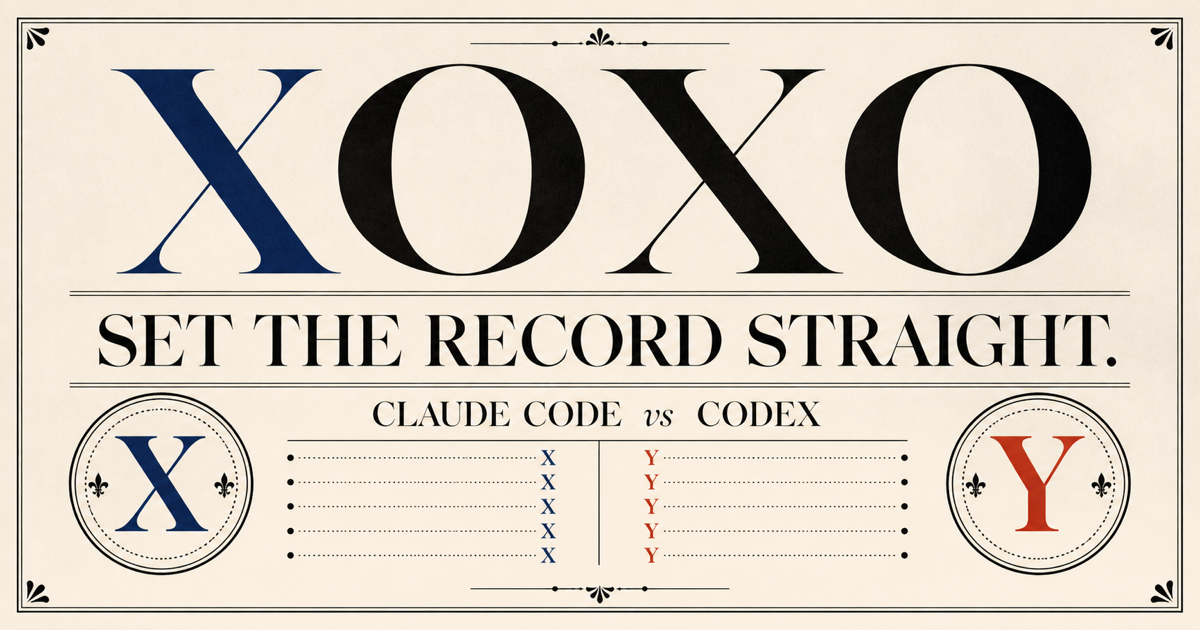
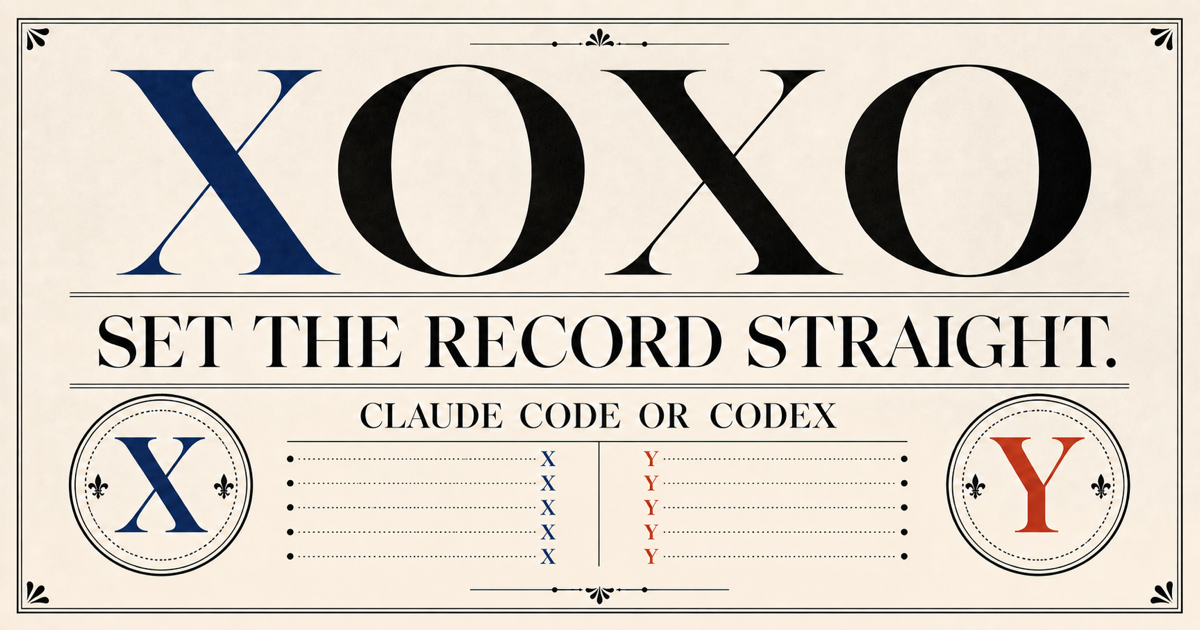
fix: clarify any-model comparisons

diff --git a/site/index.html b/site/index.html
@@ -3,8 +3,8 @@
   <head>
     <meta charset="UTF-8" />
     <meta name="viewport" content="width=device-width, initial-scale=1" />
-    <title>XOXO — Claude Code vs Codex Eval Harness</title>
-    <meta name="description" content="XOXO is a local evaluation harness where headless Claude Code and Codex compete in isolated fixtures with deterministic assertions, redacted evidence, and optional blind judging." />
+    <title>XOXO — Compare Any Two Models on Claude Code or Codex</title>
+    <meta name="description" content="XOXO compares any two models running on headless Claude Code or Codex in isolated fixtures with deterministic assertions, redacted evidence, and optional blind judging." />
     <meta name="robots" content="index,follow,max-image-preview:large,max-snippet:-1,max-video-preview:-1" />
     <meta name="theme-color" content="#f3ecdf" />
     <link rel="canonical" href="https://xoxo.invalid/" />
@@ -12,13 +12,13 @@
     <meta property="og:type" content="website" />
     <meta property="og:site_name" content="XOXO" />
     <meta property="og:title" content="XOXO — Set the record straight" />
-    <meta property="og:description" content="Claude Code and Codex go head-to-head. Fresh fixtures, ruthless assertions, redacted receipts, and a blind judge when things get juicy." />
+    <meta property="og:description" content="Compare any two models on Claude Code or Codex. Fresh fixtures, ruthless assertions, redacted receipts, and a blind judge when things get juicy." />
     <meta property="og:url" content="https://xoxo.invalid/" />
     <meta property="og:image" content="https://xoxo.invalid/og.png" />
-    <meta property="og:image:alt" content="XOXO evidence desk: Claude Code versus Codex" />
+    <meta property="og:image:alt" content="XOXO evidence desk: compare any two models on Claude Code or Codex" />
     <meta name="twitter:card" content="summary_large_image" />
     <meta name="twitter:title" content="XOXO — Set the record straight" />
-    <meta name="twitter:description" content="The scandalous head-to-head eval harness for Claude Code and Codex." />
+    <meta name="twitter:description" content="The scandalous head-to-head eval harness for any two models on Claude Code or Codex." />
     <meta name="twitter:image" content="https://xoxo.invalid/og.png" />
     <link rel="stylesheet" href="/styles.css" />
     <script type="application/ld+json">
@@ -30,7 +30,7 @@
             "@id": "https://xoxo.invalid/#website",
             "url": "https://xoxo.invalid/",
             "name": "XOXO",
-            "description": "A local evaluation harness for comparing headless Claude Code and Codex.",
+            "description": "A local evaluation harness for comparing any two models running on headless Claude Code or Codex.",
             "inLanguage": "en-US"
           },
           {
@@ -42,14 +42,14 @@
             "applicationSubCategory": "AI evaluation harness",
             "operatingSystem": "macOS, Linux",
             "softwareRequirements": "Bun 1.2+, authenticated Claude Code CLI, authenticated Codex CLI",
-            "description": "XOXO compares headless Claude Code and Codex in isolated fixtures using deterministic assertions, normalized events, redacted artifacts, and optional blind judging.",
+            "description": "XOXO compares any two models running on headless Claude Code or Codex in isolated fixtures using deterministic assertions, normalized events, redacted artifacts, and optional blind judging.",
             "offers": {
               "@type": "Offer",
               "price": "0",
               "priceCurrency": "USD"
             },
             "featureList": [
-              "Claude Code versus Codex comparisons",
+              "Same-framework or cross-framework model comparisons on Claude Code or Codex",
               "Isolated fixture copies",
               "Deterministic output, file, tool, JSON, and subagent assertions",
               "Replayable normalized event streams",
@@ -67,15 +67,15 @@
                 "name": "What is XOXO?",
                 "acceptedAnswer": {
                   "@type": "Answer",
-                  "text": "XOXO is a local evaluation harness that runs headless Claude Code and Codex against the same isolated fixtures, records normalized and redacted evidence, applies deterministic assertions, and can use a blind third model for semantic judging."
+                  "text": "XOXO is a local evaluation harness that compares any two models running on headless Claude Code or Codex against the same isolated fixtures, records normalized and redacted evidence, applies deterministic assertions, and can use a blind third model for semantic judging."
                 }
               },
               {
                 "@type": "Question",
-                "name": "How does XOXO compare Claude Code and Codex fairly?",
+                "name": "How does XOXO compare any two models fairly?",
                 "acceptedAnswer": {
                   "@type": "Answer",
-                  "text": "Each candidate receives the same prompt and a fresh copy of the same fixture. XOXO records provider-neutral events and grades both candidates with the same deterministic assertions before any semantic judge is allowed to vote."
+                  "text": "Each candidate independently selects Claude Code or Codex, then receives the same prompt and a fresh copy of the same fixture. XOXO records provider-neutral events and grades both candidates with the same deterministic assertions before any semantic judge is allowed to vote."
                 }
               },
               {
@@ -136,13 +136,13 @@
         <h1 id="hero-title">Set the record <em>straight.</em></h1>
         <p class="hero-deck">Spotted on the Upper East Side: two major players competing for the crown, and only one gets to sit on the steps of the Met. Who’s pulling the strings, and who’s getting exposed? Let’s find out.</p>
 
-        <div class="match-card" aria-label="Claude Code versus Codex">
+        <div class="match-card" aria-label="Any two models on Claude Code or Codex">
           <article class="candidate candidate-x">
             <span class="candidate-mark">X</span>
             <div>
               <p>Candidate one</p>
-              <h2>Claude Code</h2>
-              <span>Headless · restricted · stream JSON</span>
+              <h2>Model X</h2>
+              <span>Claude Code or Codex</span>
             </div>
           </article>
           <div class="versus" aria-hidden="true">VS</div>
@@ -150,8 +150,8 @@
             <span class="candidate-mark">Y</span>
             <div>
               <p>Candidate two</p>
-              <h2>Codex</h2>
-              <span>Ephemeral · JSONL · isolated config</span>
+              <h2>Model Y</h2>
+              <span>Claude Code or Codex</span>
             </div>
           </article>
         </div>
@@ -163,8 +163,8 @@
         <div class="section-label">The tip</div>
         <div class="answer-copy">
           <h2 id="what-is-xoxo">What is XOXO?</h2>
-          <p class="direct-answer">XOXO is a local evaluation harness that gives headless Claude Code and Codex the same task, keeps every receipt, and determines which candidate actually earned the crown.</p>
-          <p>Spotted: XOXO, the ultimate playground where headless Claude Code and Codex go head-to-head. We put every little candidate through a fresh, isolated fixture, keep receipts with normalized events and redacted secrets, run ruthless assertions, and—when things get really juicy—call in a blind third model to judge their every move. Because around here, darling, reputation is everything.</p>
+          <p class="direct-answer">XOXO is a local evaluation harness that compares any two models running on headless Claude Code or Codex—same framework or cross-framework—against the same task, keeps every receipt, and determines which candidate actually earned the crown.</p>
+          <p>Spotted: XOXO, the ultimate playground where any two models running through headless Claude Code or Codex go head-to-head. Compare two Claude Code candidates, two Codex candidates, or one of each. We put every little candidate through a fresh, isolated fixture, keep receipts with normalized events and redacted secrets, run ruthless assertions, and—when things get really juicy—call in a blind third model to judge their every move. Because around here, darling, reputation is everything.</p>
         </div>
         <dl class="receipt-list">
           <div><dt>01</dt><dd>Fresh fixture for every attempt</dd></div>
@@ -192,7 +192,7 @@ bun run xoxo compare examples/smoke.yaml \
   --y codex:gpt-5.6-sol --y-effort high
 bun run xoxo dev</code></pre>
         </div>
-        <p class="note">Sneak a peek at <a href="http://127.0.0.1:5173">127.0.0.1:5173</a> after running <code>dev</code>. The server stays on loopback by default—we do love our privacy.</p>
+        <p class="note">This example crosses frameworks, but X and Y can each use Claude Code or Codex independently. Sneak a peek at <a href="http://127.0.0.1:5173">127.0.0.1:5173</a> after running <code>dev</code>. The server stays on loopback by default—we do love our privacy.</p>
       </section>
 
       <section class="interface-section ruled" id="cli" aria-labelledby="cli-title">
@@ -200,7 +200,7 @@ bun run xoxo dev</code></pre>
         <div class="interface-copy">
           <p class="eyebrow">CLI</p>
           <h2 id="cli-title">Every command has a story.</h2>
-          <p>The strict dress code is <code>claude:&lt;model&gt;</code> or <code>codex:&lt;model&gt;</code>. Max turns and spawn depth are exclusive privileges for Claude; XOXO rejects them for Codex strict-parity runs.</p>
+          <p>Each candidate independently wears <code>claude:&lt;model&gt;</code> or <code>codex:&lt;model&gt;</code>, so same-framework and cross-framework matchups are both welcome. Max turns and spawn depth are exclusive privileges for Claude; XOXO rejects them for Codex strict-parity runs.</p>
         </div>
         <div class="command-list" role="list" aria-label="XOXO commands">
           <div role="listitem"><code>xoxo init</code><span>Create the local dossier</span></div>
@@ -261,11 +261,11 @@ bun run xoxo dev</code></pre>
         <div class="faq-list">
           <details open>
             <summary>What is XOXO?</summary>
-            <p>XOXO is a local evaluation harness that runs headless Claude Code and Codex against the same isolated fixtures, records normalized and redacted evidence, applies deterministic assertions, and can use a blind third model for semantic judging.</p>
+            <p>XOXO is a local evaluation harness that compares any two models running on headless Claude Code or Codex against the same isolated fixtures, records normalized and redacted evidence, applies deterministic assertions, and can use a blind third model for semantic judging.</p>
           </details>
           <details>
-            <summary>How does XOXO compare Claude Code and Codex fairly?</summary>
-            <p>Each candidate receives the same prompt and a fresh copy of the same fixture. XOXO grades both with the same deterministic assertions before any semantic judge is allowed to vote.</p>
+            <summary>How does XOXO compare any two models fairly?</summary>
+            <p>Each candidate independently selects Claude Code or Codex, then receives the same prompt and a fresh copy of the same fixture. XOXO grades both with the same deterministic assertions before any semantic judge is allowed to vote.</p>
           </details>
           <details>
             <summary>Does XOXO support subagents?</summary>

diff --git a/worker/site.ts b/worker/site.ts
@@ -67,13 +67,13 @@ function sitemap(origin: string) {
 function llms(origin: string) {
   return `# XOXO
 
-> XOXO is a local evaluation harness for comparing headless Claude Code and Codex in equivalent isolated fixtures with deterministic assertions, normalized events, redacted evidence, and optional blind judging.
+> XOXO is a local evaluation harness for comparing any two models running on headless Claude Code or Codex in equivalent isolated fixtures with deterministic assertions, normalized events, redacted evidence, and optional blind judging.
 
 XOXO is developer tooling built with Bun and Elysia. It exposes a CLI, loopback HTTP API, replayable SSE, and a stdio MCP server. Runs are persisted in SQLite and export portable JSON and HTML reports.
 
 ## Core facts
 
-- Candidates use the form \`claude:<model>\` or \`codex:<model>\`.
+- Each candidate independently uses the form \`claude:<model>\` or \`codex:<model>\`, enabling two Claude Code candidates, two Codex candidates, or one of each.
 - Both candidates receive the same prompt and fresh fixture copy.
 - Deterministic checks cover output, files, tools, JSON, and subagent spawn counts.
 - A blind third model judges semantic rubrics only when both candidates pass deterministic gates.
@@ -89,7 +89,7 @@ XOXO is developer tooling built with Bun and Elysia. It exposes a CLI, loopback 
 
 ## Canonical answer
 
-XOXO compares headless Claude Code and Codex by running the same task in separate copies of the same fixture, normalizing provider events, grading deterministic evidence first, and optionally using a seeded blind judge for semantic criteria.
+XOXO compares any two models running on Claude Code or Codex—same framework or cross-framework—by running the same task in separate copies of the same fixture, normalizing provider events, grading deterministic evidence first, and optionally using a seeded blind judge for semantic criteria.
 `;
 }
 

diff --git a/tests/site.test.ts b/tests/site.test.ts
@@ -21,7 +21,8 @@ describe("Cloudflare site and AI discovery", () => {
     const llms = await (await siteWorker.fetch(request("/llms.txt"), env)).text();
     expect(sitemap).toContain("<loc>https://xoxo.example/</loc>");
     expect(llms).toContain("# XOXO");
-    expect(llms).toContain("XOXO compares headless Claude Code and Codex");
+    expect(llms).toContain("XOXO compares any two models running on Claude Code or Codex");
+    expect(llms).toContain("two Claude Code candidates, two Codex candidates, or one of each");
     expect(llms).toContain("https://xoxo.example/llms-full.txt");
   });
 
@@ -35,6 +36,9 @@ describe("Cloudflare site and AI discovery", () => {
 
   test("keeps structured answers valid and visible", async () => {
     const html = await readFile(new URL("../site/index.html", import.meta.url), "utf8");
+    expect(html).toContain("Claude Code or Codex");
+    expect(html).not.toContain("Claude Code vs Codex");
+    expect(html).not.toContain("Claude Code versus Codex");
     const match = html.match(/<script type="application\/ld\+json">([\s\S]*?)<\/script>/);
     expect(match).not.toBeNull();
     const schema = JSON.parse(match![1]!) as { "@graph": Array<{ "@type": string; mainEntity?: Array<{ name: string }> }> };

diff --git a/README.md b/README.md
@@ -2,7 +2,7 @@ Gossip Girl here, your one and only source into the scandalous lives of Manhatta
 
 # XOXO
 
-Spotted: XOXO, the ultimate playground where headless Claude Code and Codex go head-to-head. We put every little candidate through a fresh, isolated fixture, keep receipts with normalized events and redacted secrets, run ruthless assertions, and—when things get really juicy—call in a blind third model to judge their every move. Because around here, darling, reputation is everything.
+Spotted: XOXO, the ultimate playground where any two models running through headless Claude Code or Codex go head-to-head. Compare two Claude Code candidates, two Codex candidates, or one of each. We put every little candidate through a fresh, isolated fixture, keep receipts with normalized events and redacted secrets, run ruthless assertions, and—when things get really juicy—call in a blind third model to judge their every move. Because around here, darling, reputation is everything.
 
 ## Quick start
 
@@ -34,7 +34,7 @@ xoxo mcp                          run the stdout-pure MCP stdio server
 xoxo setup agents --target both   print setup changes (add --apply to write)
 ```
 
-The strict dress code is `claude:<model>` or `codex:<model>`. Want to spice things up? Throw in `--x-effort`, `--y-effort`, `--judge`, `--judge-retries`, `--seed`, `--trials`, `--timeout`, `--case`, `--tag`, `--x-skill`, `--y-skill`, `--x-agent-model`, `--x-agent-effort`, `--x-agent-max-turns`, `--x-agent-concurrency`, and `--x-agent-spawn-depth` (repeat with `y` for your other favorite). Just remember: max turns and spawn depth are exclusive privileges for Claude. XOXO doesn't do double standards when Codex demands strict parity.
+Each candidate independently wears `claude:<model>` or `codex:<model>`, so same-framework and cross-framework matchups are both welcome. Want to spice things up? Throw in `--x-effort`, `--y-effort`, `--judge`, `--judge-retries`, `--seed`, `--trials`, `--timeout`, `--case`, `--tag`, `--x-skill`, `--y-skill`, `--x-agent-model`, `--x-agent-effort`, `--x-agent-max-turns`, `--x-agent-concurrency`, and `--x-agent-spawn-depth` (repeat with `y` for your other favorite). Just remember: max turns and spawn depth are exclusive privileges for Claude. XOXO doesn't do double standards when Codex demands strict parity.
 
 ## HTTP API
 
